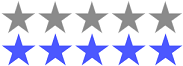
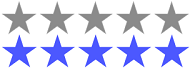
no message

diff --git a/src/components/search/search.vue b/src/components/search/search.vue
@@ -1,37 +1,49 @@
 <template>
    <div>
        <comp-movie v-for="movie in movies" :movie="movie"></comp-movie>
+       <infinite-loading @infinite="infiniteHandler" spinner="waveDots"></infinite-loading>
    </div>
 </template>
 
 <script>
-import axios from 'axios';
+
 import movie from './movie.vue'
+import InfiniteLoading from "vue-infinite-loading";
+import axios from "axios";
+
 
 export default {
     data(){
         return {
             search : this.$route.params.search,
-            movies: []
+            movies: [],
+            page: 1
         }
     },
-    created(){
-        axios.get('http://localhost:8088/movie/'+this.search)
-            .then(res => {
-                const data = res.data
-                for(let key in data){
-                     this.movies.push(data[key])
-                }
-                console.log(this.movies)
-            })
-            .catch(err => console.log(err))
-    },
+    // created(){
+    //     this.$store.dispatch('GET_MOVIE_LIST', this.search)
+    // },
     components: {
         compMovie : movie,
+        InfiniteLoading
+    },
+    methods: {
+        infiniteHandler($state){
+            axios.get('http://localhost:8088/movie/'+this.search+'/'+this.page)
+                .then(res => {
+                    setTimeout(() => {
+                        const data = res.data
+                        for(let key in data){
+                            this.movies.push(data[key])
+                        }
+                        this.page += 18;
+                        $state.loaded();
+                    }, 1000)
+                })
+                .catch(err => console.log(err))
+        },
+
     }
 }
 </script>
 
-<style scoped>
-
-</style>

diff --git a/src/components/search/movie.vue b/src/components/search/movie.vue
@@ -6,15 +6,15 @@
                     <img class="imageClass" :src="movie.image"  v-if="movie.image != ''" @click="goLink(movie.link)">
                     <img class="imageClass" src="../../image/mean.jpg" v-else>
                 </div>
-                <div style="width:30px; float: left; height: 150px;"></div>
+                <div style="width:30px; float: left; height: 200px;"></div>
                 <div class="containMovie">
-                    <h3 v-html="movie.title"></h3>
+                    <h4 v-html="movie.title"></h4>
                     감독 : <span v-html='director.join(" ")'></span><br>
-                    제작년도 : <span v-html='movie.pubDate'></span><br><br>
+                    제작년도 : <span v-html='movie.pubDate'></span><br>
+                    평점 : <span v-html="movie.userRating" style="font-size: large"></span><br><br>
                     <span class='star-rating'>
-                            <span :style="{width:movie.userRating*10+'%'}"></span>
+                            <span :style="{width: movie.userRating*10+'%'}"></span>
                     </span><br>
-
                 </div>
             </div>
 
@@ -54,7 +54,8 @@ export default {
         width: 150px;
         cursor: pointer;
     }
-    .star-rating { width:183px; }
+
+    .star-rating { width:192px; }
     .star-rating,.star-rating span { display:inline-block; height:33px; overflow:hidden; background:url(../../image/star.png)no-repeat; }
     .star-rating span{ background-position:left bottom; line-height:0; vertical-align:top; }
 </style>

diff --git a/src/components/common/header.vue b/src/components/common/header.vue
@@ -1,5 +1,5 @@
 <template>
-    <nav class="navbar navbar-default">
+    <nav class="navbar navbar-default navbar-fixed-top">
         <div class="container-fluid">
             <!-- Brand and toggle get grouped for better mobile display -->
             <div class="navbar-header">
@@ -14,7 +14,7 @@
 
             <!-- Collect the nav links, forms, and other content for toggling -->
             <div class="collapse navbar-collapse" id="bs-example-navbar-collapse-1">
-                <ul v-if="!loginCheck" class="nav navbar-nav">
+                <ul v-if="!loginCheck" class="nav navbar-nav ">
                     <router-link to="/signin" activeClass="active" tag="li"><a>sign in</a></router-link>
                     <router-link to="/signup" activeClass="active" tag="li"><a>sign up</a></router-link>
                 </ul>

diff --git a/src/components/Home.vue b/src/components/Home.vue
@@ -1,6 +1,8 @@
 <template>
     <div id="welcome">
-        <img src="../image/mean.jpg" height="500px" width="80%">
+        <div>
+            <img src="../image/mean.jpg" height="500px" width="50%" align="center">
+        </div>
     </div>
 </template>
 
@@ -13,7 +15,8 @@ export default {
 <style scoped>
 #welcome {
     width: 80%;
-    margin: 50px auto;
+    margin: 0px auto;
+    text-align: center;
 }
 
 h1 {

diff --git a/src/App.vue b/src/App.vue
@@ -1,12 +1,12 @@
 <template>
   <div>
       <app-header></app-header>
-      <div style="margin: 100px;">
+      <div style="margin:100px;">
           <transition name="slide" mode="out-in">
               <router-view :key="$route.fullPath"></router-view>
           </transition>
       </div>
-      <app-footer></app-footer>
+      <div style="clear:both"><app-footer></app-footer></div>
   </div>
 </template>
 

diff --git a/src/components/common/footer.vue b/src/components/common/footer.vue
@@ -1,9 +1,11 @@
 <template>
     <div class="jumbotron">
-        <div class="container">
-            <h1>fds</h1>
+        <div style="text-align: center">
+            <h1>JUNGKIMHOON</h1>
+            <p>김정훈</p>
         </div>
     </div>
+
 </template>
 
 <script>

diff --git a/src/store/store.js b/src/store/store.js
@@ -2,7 +2,8 @@ import Vue from 'vue';
 import Vuex from 'vuex';
 
 import createPersistedState from "vuex-persistedstate";
-import auth from './modules/auth'
+import auth from './modules/auth';
+
 
 Vue.use(Vuex);
 
